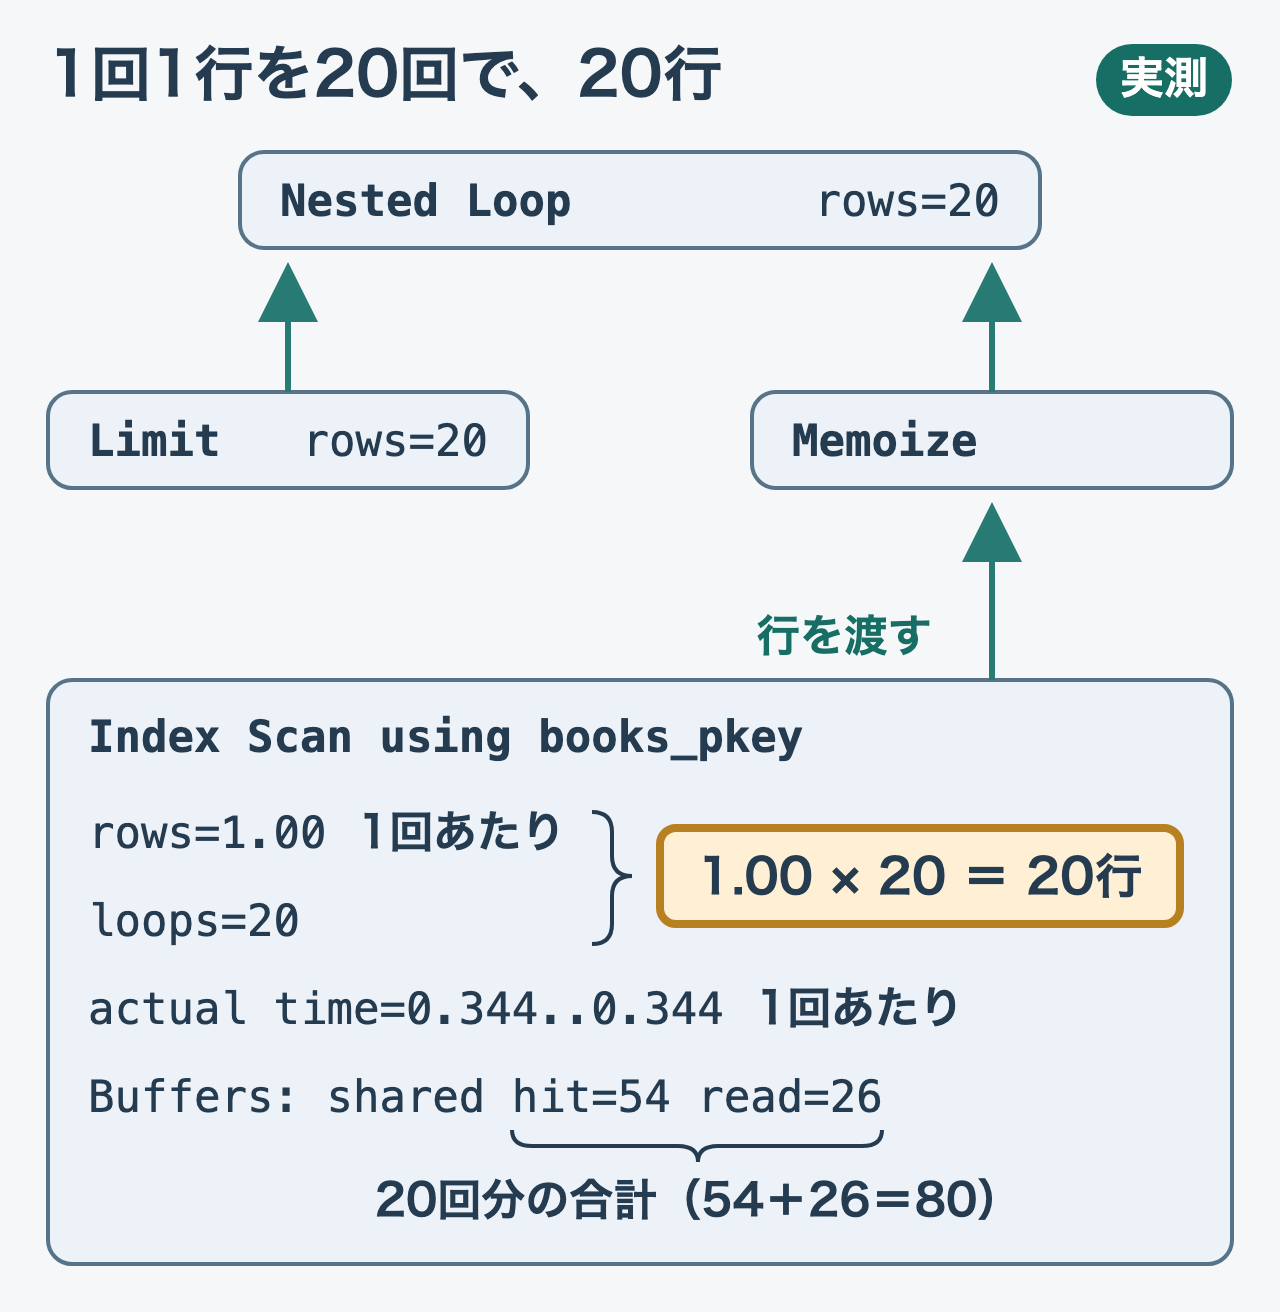
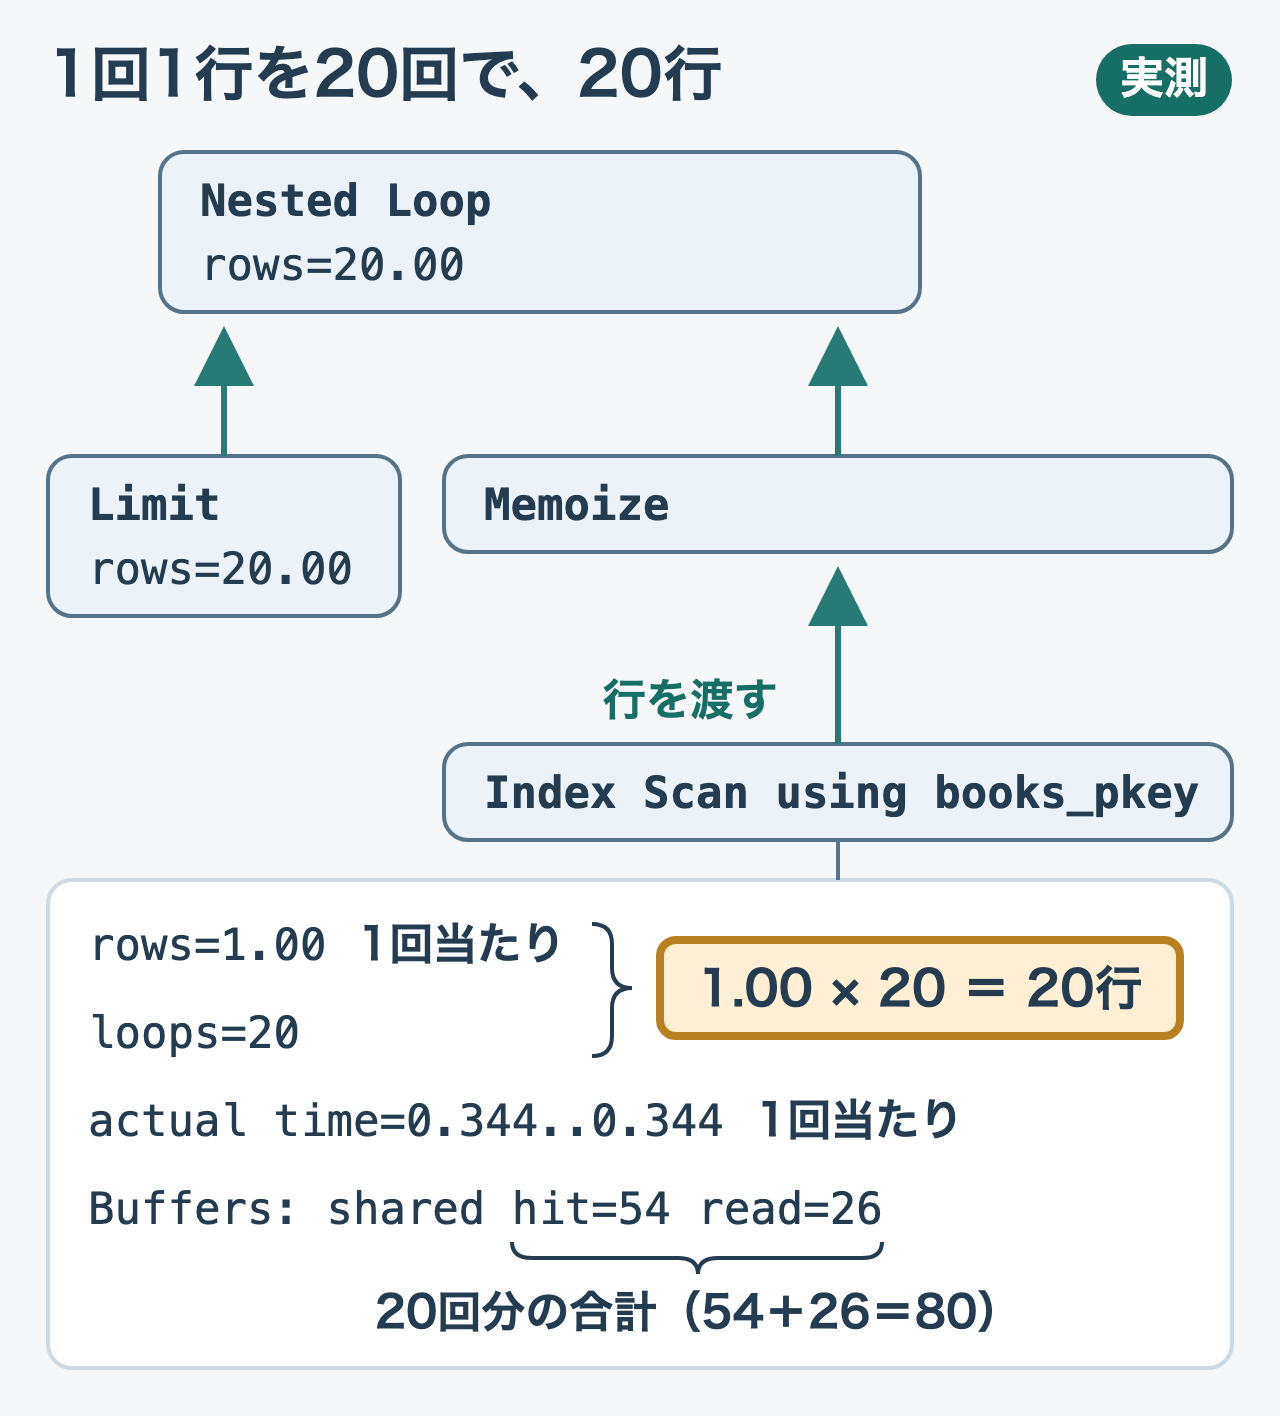
docs(query-journey): 第9章の loops の図で、表記を本文にそろえ、rows を実際の値の書き方にする
図のラベルと図の直前の1文の「1回あたり」を、本文（第9章87行目、第10・12章）の表記「1回当たり」にそろえた。Nested Loop と Limit の rows は、推定の値と読まれないよう、Index Scan の rows=1.00 と同じ実際の値の書き方（rows=20.00）にした。あわせて、Index Scan のノードを Memoize の下だけに置き、四つの値は短い線でつないだ下の枠へ移して、Limit の子に見えないようにした。

diff --git a/books/postgresql-query-journey/09-join.md b/books/postgresql-query-journey/09-join.md
@@ -86,7 +86,7 @@ Execution Time: 7.494 ms
 
 計画に`loops=20`があれば、その処理を20回実行しています。`actual rows`や`actual time`は、複数回実行では1回当たりの平均として表示されます。1回1行を20回返せば、全体では20行です。第7章で見たとおり親の時間は子を含むので、親子の時間をすべて足すと子の処理時間を二重に数えることになります。
 
-図で、内側の`Index Scan`の`rows`・`loops`・`Buffers`を、1回あたりの値と20回分の合計に分けて読んでください。
+図で、内側の`Index Scan`の`rows`・`loops`・`Buffers`を、1回当たりの値と20回分の合計に分けて読んでください。
 
 ![Nested Loopの内側のIndex Scanは rows=1.00、loops=20 で、1回1行を20回返して全体で20行。Buffers の hit=54 と read=26 は20回分の合計](/images/postgresql-query-journey/09-loops.png)
 *rows=1.00 と loops=20 を掛けると20行です。Buffers の hit=54 と read=26 は、20回分の合計です（実測）。*
